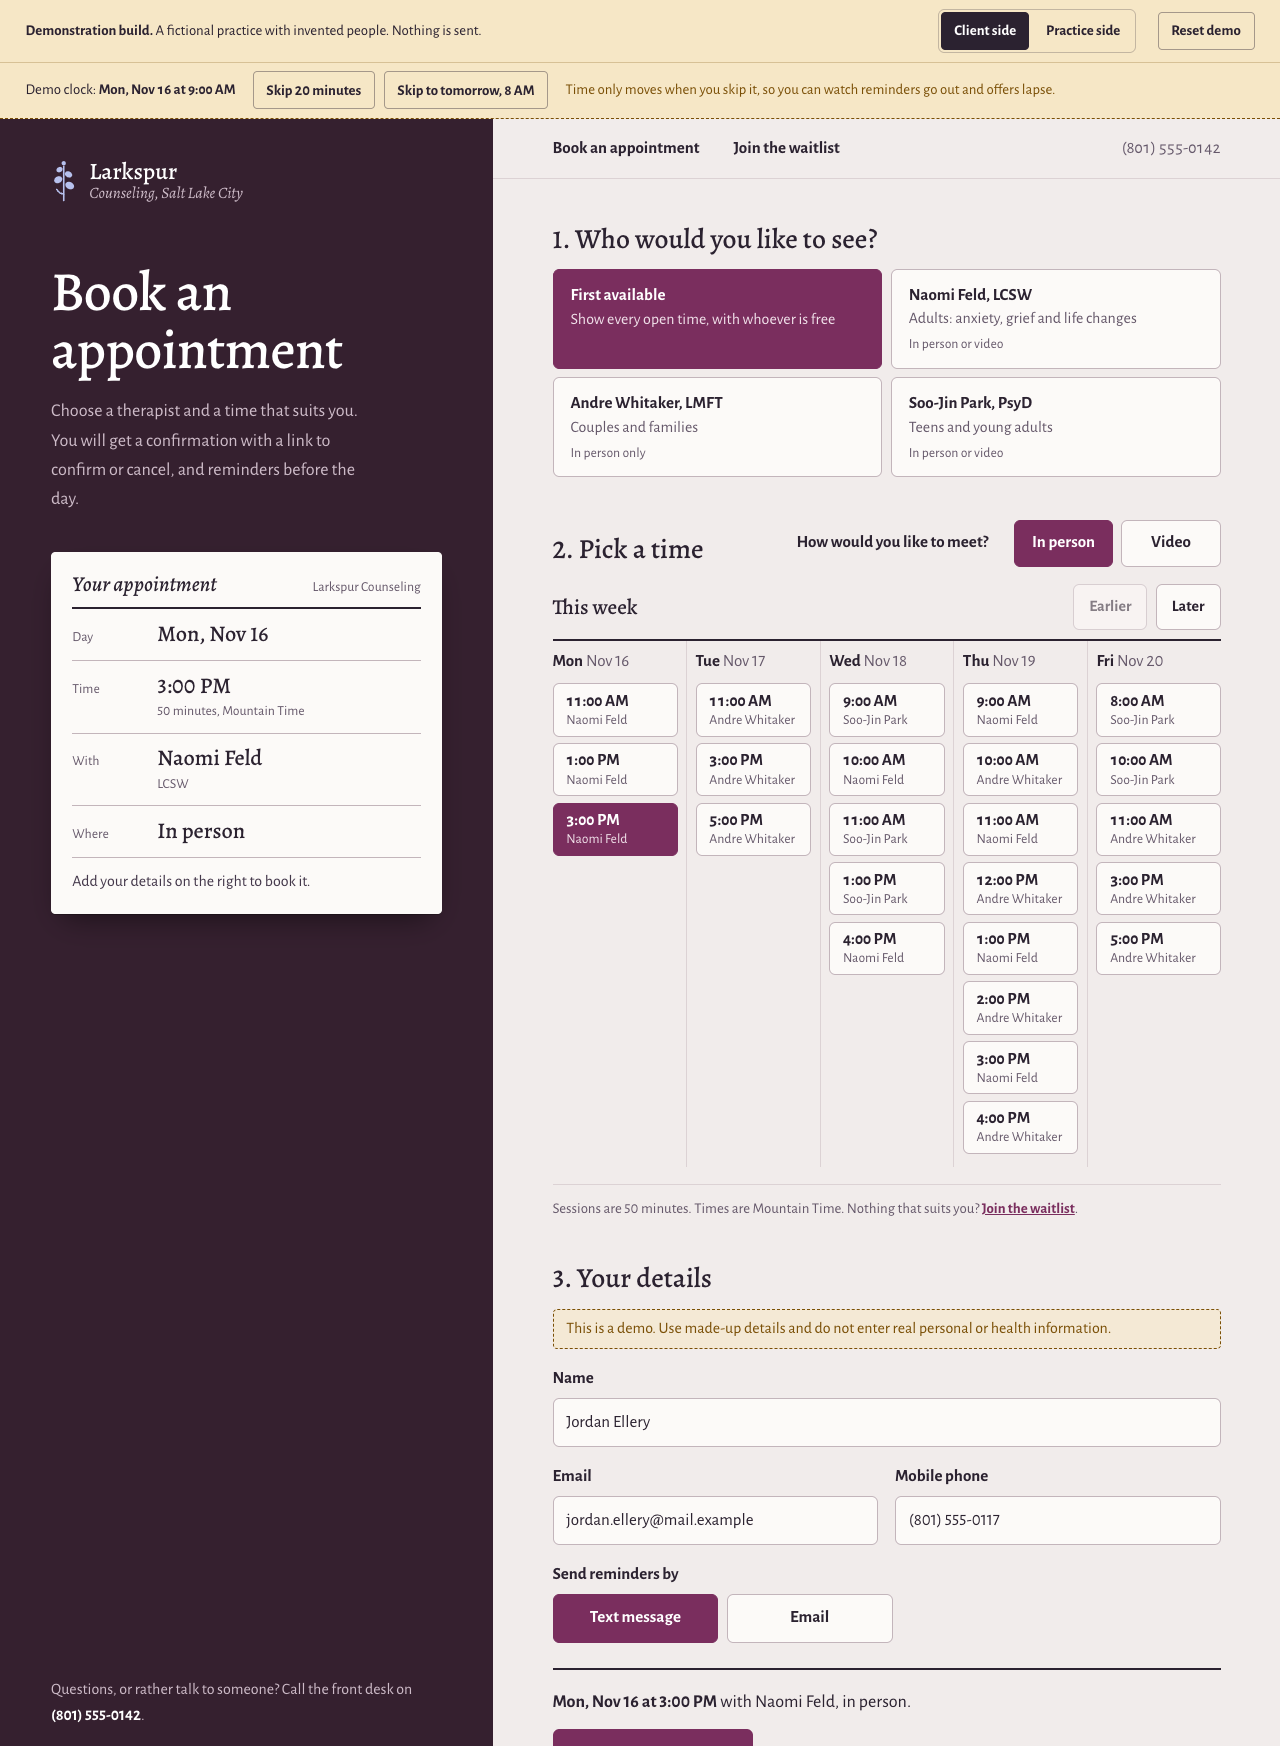
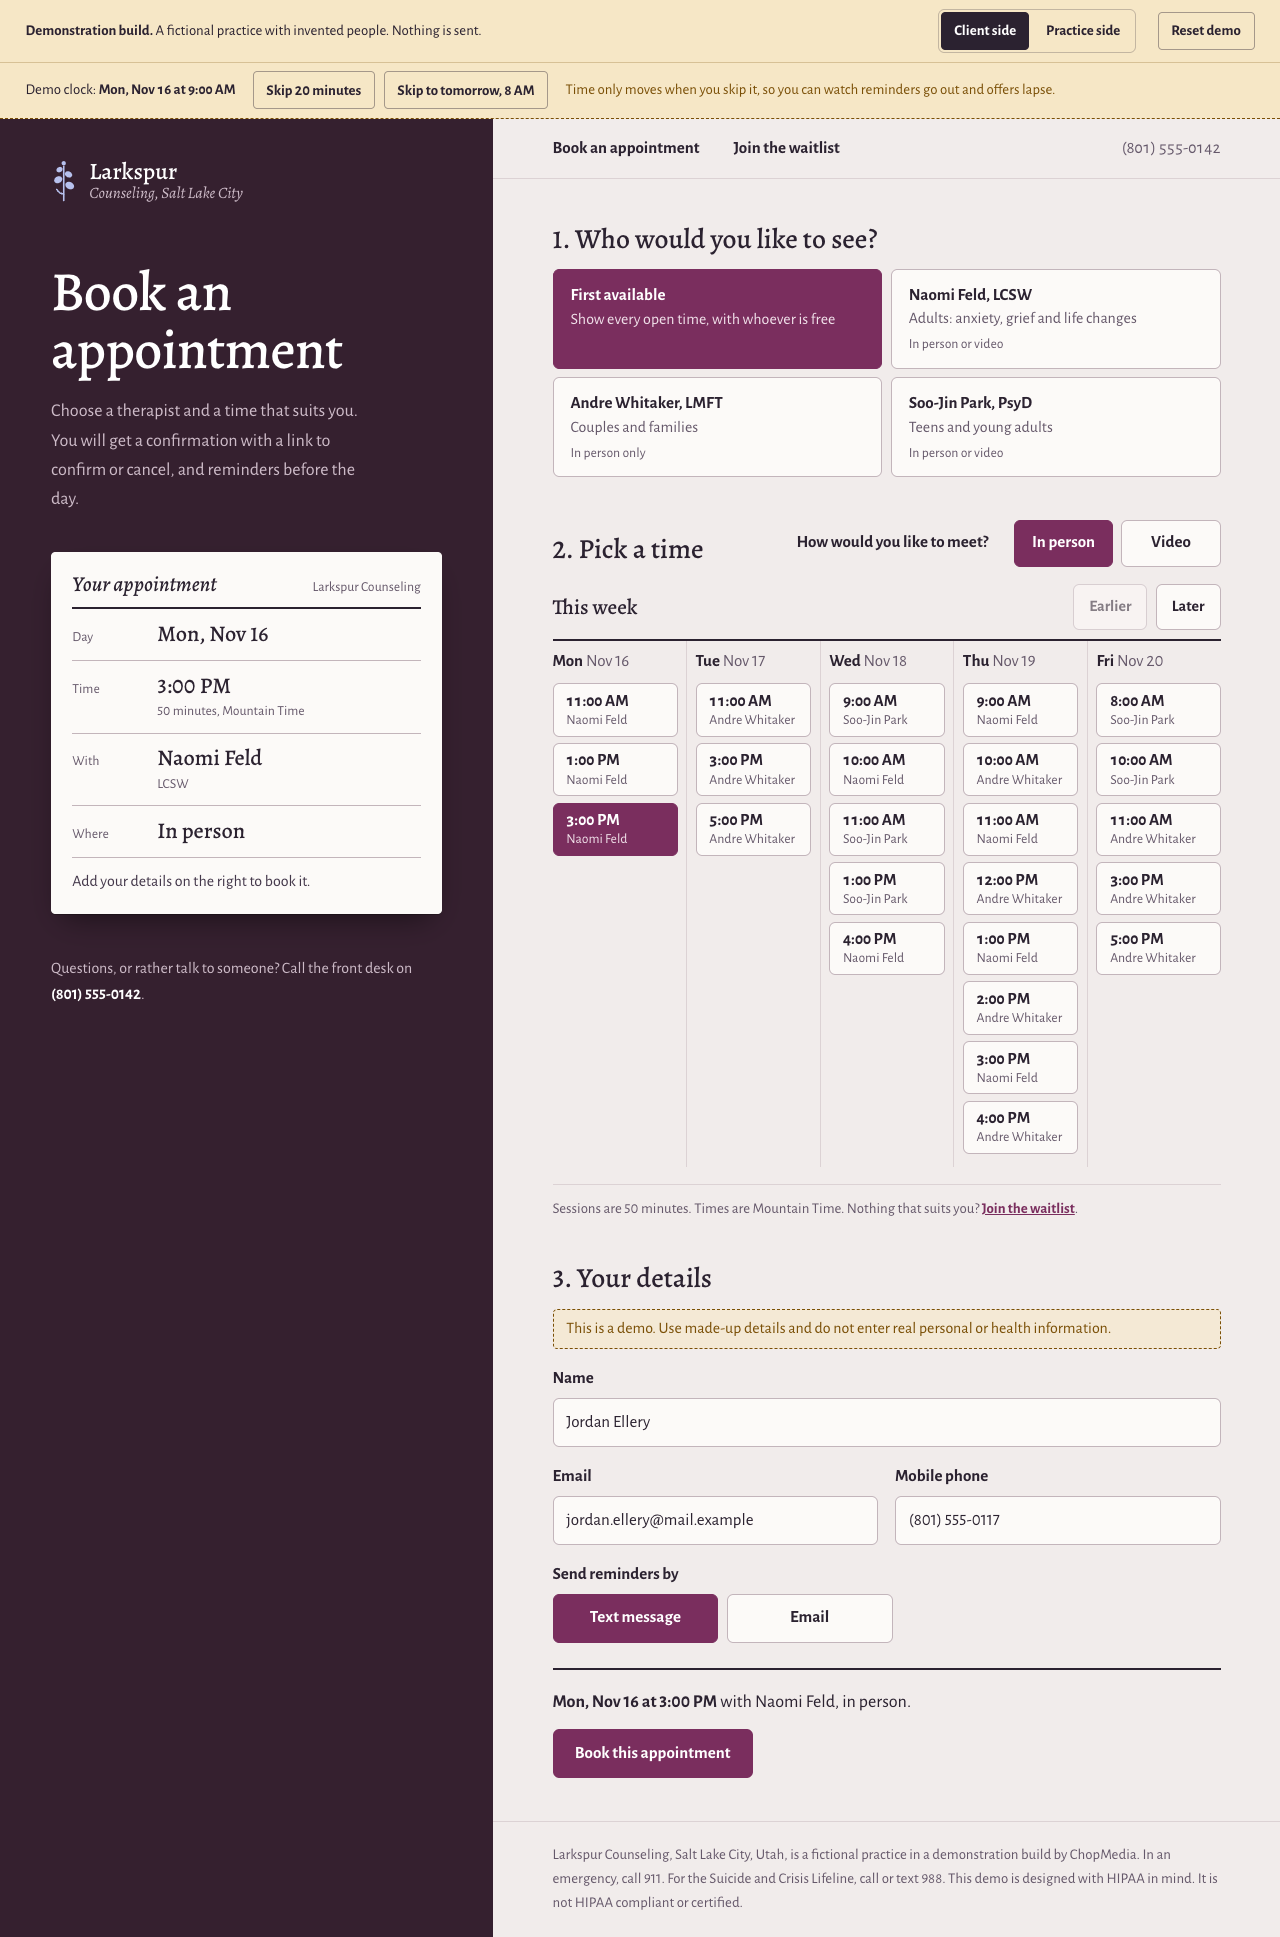
Compact the demo bar and dusk panel on phone, practice-side not-found page
On a 390px phone the first booking choice now sits on the first screen:
shorter demo bar (short clock, hint sentence hidden), smaller headline and
tighter padding in the dusk panel, tighter appointment card. Unknown
/practice URLs keep the practice frame. Docs screenshots retaken full height.

diff --git a/src/components/site.tsx b/src/components/site.tsx
@@ -25,13 +25,13 @@ const NAV = [
  * The fictional practice's public website frame, around every client-side page.
  * On a laptop the practice's own panel stays put on the left, with what the page
  * is about, while the work of the page happens on the right. On a phone the
- * panel is the top of the page.
+ * panel is a short top of the page, so the first choice is on the first screen.
  */
 export function SiteFrame({ aside, children }: { aside: React.ReactNode; children: React.ReactNode }) {
   return (
     <div className="flex flex-1 flex-col lg:grid lg:grid-cols-[24rem_minmax(0,1fr)] xl:grid-cols-[29rem_minmax(0,1fr)]">
       <header className="on-dusk bg-dusk text-white">
-        <div className="flex flex-col px-5 pb-8 pt-5 sm:px-8 lg:sticky lg:top-0 lg:min-h-[min(100%,calc(100vh-5.5rem))] lg:px-10 lg:pb-10 lg:pt-9 xl:px-12">
+        <div className="flex flex-col px-5 pb-5 pt-3 sm:px-8 sm:pb-8 sm:pt-5 lg:sticky lg:top-0 lg:min-h-[min(100%,calc(100vh-5.5rem))] lg:px-10 lg:pb-10 lg:pt-9 xl:px-12">
           <Link href="/" className="flex min-h-11 items-center gap-3 self-start rounded-sm">
             <LarkspurMark className="h-10 w-6 text-[#b7c1ee]" />
             <span className="font-display text-[1.375rem] font-medium leading-[1.1]">
@@ -39,14 +39,14 @@ export function SiteFrame({ aside, children }: { aside: React.ReactNode; childre
               <span className="block text-[0.9375rem] font-normal italic text-dusk-soft">Counseling, {PRACTICE.city.split(",")[0]}</span>
             </span>
           </Link>
-          <nav aria-label="Larkspur website" className="mt-5 flex flex-wrap gap-x-6 border-t border-white/15 pt-1 lg:hidden">
+          <nav aria-label="Larkspur website" className="mt-1 flex flex-wrap gap-x-6 border-t border-white/15 sm:mt-5 sm:pt-1 lg:hidden">
             {NAV.map((item) => (
               <Link key={item.href} href={item.href} className="flex min-h-11 items-center font-semibold underline decoration-white/40 underline-offset-4">
                 {item.label}
               </Link>
             ))}
           </nav>
-          <div className="mt-6 lg:mt-14">{aside}</div>
+          <div className="mt-3 sm:mt-6 lg:mt-14">{aside}</div>
           <p className="mt-auto hidden pt-10 text-[0.9375rem] leading-relaxed text-dusk-soft lg:block">
             Questions, or rather talk to someone? Call the front desk on <span className="whitespace-nowrap font-semibold text-white">{PRACTICE.phone}</span>.
           </p>
@@ -62,7 +62,7 @@ export function SiteFrame({ aside, children }: { aside: React.ReactNode; childre
           ))}
           <span className="ml-auto tabular-nums text-muted">{PRACTICE.phone}</span>
         </nav>
-        <main className="w-full max-w-[60rem] flex-1 px-5 py-8 sm:px-8 lg:px-10 lg:py-10 xl:px-14">{children}</main>
+        <main className="w-full max-w-[60rem] flex-1 px-5 py-6 sm:px-8 sm:py-8 lg:px-10 lg:py-10 xl:px-14">{children}</main>
         <footer className="border-t border-line px-5 py-5 sm:px-8 lg:px-10 xl:px-14">
           <p className="max-w-[60rem] text-sm leading-relaxed text-muted">
             {PRACTICE.name}, {PRACTICE.city}, is a fictional practice in a demonstration build by ChopMedia. In an emergency, call 911. For the Suicide
@@ -78,9 +78,9 @@ export function SiteFrame({ aside, children }: { aside: React.ReactNode; childre
 export function AsideIntro({ greeting, title, children }: { greeting?: string; title: string; children?: React.ReactNode }) {
   return (
     <>
-      {greeting && <p className="font-display text-xl italic text-dusk-soft">{greeting}</p>}
-      <h1 className="font-display text-[2.5rem] font-medium leading-[1.05] tracking-[-0.01em] xl:text-[3.25rem]">{title}</h1>
-      {children && <p className="mt-4 max-w-[34ch] text-[1.0625rem] leading-relaxed text-dusk-soft">{children}</p>}
+      {greeting && <p className="font-display text-[1.0625rem] italic text-dusk-soft sm:text-xl">{greeting}</p>}
+      <h1 className="font-display text-[1.75rem] font-medium leading-[1.1] tracking-[-0.01em] sm:text-[2.5rem] sm:leading-[1.05] xl:text-[3.25rem]">{title}</h1>
+      {children && <p className="mt-4 hidden max-w-[34ch] sm:block text-[1.0625rem] leading-relaxed text-dusk-soft">{children}</p>}
     </>
   );
 }
@@ -93,18 +93,18 @@ export type CardLine = { label: string; value: string | null; note?: string | nu
  */
 export function AppointmentCard({ heading, lines, footer, className = "" }: { heading: string; lines: CardLine[]; footer?: React.ReactNode; className?: string }) {
   return (
-    <div className={`rounded-[0.25rem] bg-surface px-5 pb-5 pt-4 text-ink shadow-[0_1px_0_rgba(0,0,0,0.25),0_14px_30px_-12px_rgba(0,0,0,0.55)] ${className}`}>
-      <p className="flex items-baseline justify-between gap-4 border-b-2 border-ink pb-2">
-        <span className="font-display text-xl font-medium italic">{heading}</span>
+    <div className={`rounded-[0.25rem] bg-surface px-4 pb-3 pt-3 text-ink sm:px-5 sm:pb-5 sm:pt-4 shadow-[0_1px_0_rgba(0,0,0,0.25),0_14px_30px_-12px_rgba(0,0,0,0.55)] ${className}`}>
+      <p className="flex items-baseline justify-between gap-4 border-b-2 border-ink pb-1.5 sm:pb-2">
+        <span className="font-display text-lg font-medium italic sm:text-xl">{heading}</span>
         <span className="text-[0.8125rem] text-muted">{PRACTICE.name}</span>
       </p>
       <dl>
         {lines.map((line) => (
-          <div key={line.label} className="card-rule grid grid-cols-[4.25rem_minmax(0,1fr)] items-baseline gap-x-3 py-2.5">
+          <div key={line.label} className="card-rule grid grid-cols-[4.25rem_minmax(0,1fr)] items-baseline gap-x-3 py-1.5 sm:py-2.5">
             <dt className="text-[0.8125rem] text-muted">{line.label}</dt>
             <dd className="min-h-7">
               {line.value && (
-                <span className={`font-display text-[1.3125rem] font-medium leading-tight ${line.struck ? "line-through decoration-flag decoration-2" : ""}`}>{line.value}</span>
+                <span className={`font-display text-[1.1875rem] font-medium leading-tight sm:text-[1.3125rem] ${line.struck ? "line-through decoration-flag decoration-2" : ""}`}>{line.value}</span>
               )}
               {line.note && <span className="block text-[0.8125rem] text-muted">{line.note}</span>}
             </dd>

diff --git a/src/components/demo-bar.tsx b/src/components/demo-bar.tsx
@@ -32,9 +32,10 @@ export function DemoBar({ clock }: { clock: string | null }) {
 
   return (
     <div className="demo-chrome border-b border-dashed border-amber bg-amber-tint text-sm text-ink">
-      <div className="flex flex-wrap items-center gap-x-5 gap-y-2 px-4 py-2 sm:px-6">
+      <div className="flex flex-wrap items-center gap-x-5 gap-y-1.5 px-4 py-1.5 sm:gap-y-2 sm:px-6 sm:py-2">
         <p className="min-w-0 flex-1 basis-64 leading-snug">
-          <strong className="font-semibold">Demonstration build.</strong> A fictional practice with invented people. Nothing is sent.
+          <strong className="font-semibold">Demonstration build.</strong> <span className="sm:hidden">Fictional practice. Nothing is sent.</span>
+          <span className="hidden sm:inline">A fictional practice with invented people. Nothing is sent.</span>
         </p>
         <nav aria-label="Demo view" className="flex items-center gap-1 rounded-[0.375rem] border border-ink/25 p-0.5">
           <Link href="/" className={tab(!practiceSide)} aria-current={!practiceSide ? "page" : undefined}>
@@ -51,16 +52,23 @@ export function DemoBar({ clock }: { clock: string | null }) {
         )}
       </div>
       {clock && (
-        <div className="flex flex-wrap items-center gap-x-4 gap-y-2 border-t border-amber/25 px-4 py-2 sm:px-6">
-          <p className="leading-snug">
+        <div className="flex flex-wrap items-center gap-x-2 gap-y-1.5 border-t border-amber/25 px-4 py-1.5 sm:gap-x-4 sm:gap-y-2 sm:px-6 sm:py-2">
+          <p className="hidden leading-snug sm:block">
             Demo clock: <strong className="font-semibold tabular-nums">{clock}</strong>
+          </p>
+          {/* On a phone the clock is two short lines beside the skip buttons, so the bar stays small. */}
+          <p className="mr-auto leading-tight sm:hidden">
+            <span className="block text-[0.8125rem]">Demo clock</span>
+            <strong className="block font-semibold tabular-nums">{shortClock(clock)}</strong>
           </p>
           <div className="flex flex-wrap items-center gap-2">
             <button type="button" className={step} disabled={pending} onClick={() => skip("20min")}>
               Skip 20 minutes
             </button>
             <button type="button" className={step} disabled={pending} onClick={() => skip("tomorrow")}>
-              Skip to tomorrow, 8 AM
+              <span className="sr-only sm:not-sr-only">Skip to </span>
+              <span className="sm:hidden">Tomorrow, 8 AM</span>
+              <span className="hidden sm:inline">tomorrow, 8 AM</span>
             </button>
           </div>
           {error ? (
@@ -68,7 +76,7 @@ export function DemoBar({ clock }: { clock: string | null }) {
               {error}
             </p>
           ) : (
-            <p key="hint" className="min-w-0 flex-1 basis-64 leading-snug text-amber">
+            <p key="hint" className="hidden min-w-0 flex-1 basis-64 leading-snug text-amber sm:block">
               Time only moves when you skip it, so you can watch reminders go out and offers lapse.
             </p>
           )}
@@ -78,7 +86,13 @@ export function DemoBar({ clock }: { clock: string | null }) {
   );
 }
 
-const BUTTON = "min-h-11 cursor-pointer rounded-[0.25rem] border border-ink/40 px-3 font-semibold hover:border-ink hover:bg-ink/5 lg:min-h-9";
+/** "Mon, Nov 16 at 9:00 AM" as "Mon, 9:00 AM". */
+function shortClock(clock: string) {
+  const [date, time] = clock.split(" at ");
+  return time ? `${date.split(",")[0]}, ${time}` : clock;
+}
+
+const BUTTON = "min-h-11 cursor-pointer rounded-[0.25rem] border border-ink/40 px-2.5 sm:px-3 font-semibold hover:border-ink hover:bg-ink/5 lg:min-h-9";
 
 function ResetButton() {
   const { pending } = useFormStatus();

diff --git a/src/app/offer/[token]/page.tsx b/src/app/offer/[token]/page.tsx
@@ -36,7 +36,7 @@ export default async function OfferPage({ params }: PageProps<"/offer/[token]">)
         <>
           <AsideIntro greeting={`Hello ${client.name.split(" ")[0]},`} title={HEADING[offer.status]} />
           <AppointmentCard
-            className="mt-8 max-w-[26rem]"
+            className="mt-4 max-w-[26rem] sm:mt-8"
             heading={offer.status === "accepted" ? "Your appointment" : gone ? "No longer held" : "Held for you"}
             lines={[
               { label: "Day", value: fmtDayLong(opening.startsAt), struck: gone },
@@ -51,11 +51,11 @@ export default async function OfferPage({ params }: PageProps<"/offer/[token]">)
       <div className="max-w-[40rem]">
         {offer.status === "sent" && (
           <>
-            <p className="border-l-4 border-amber bg-amber-tint px-4 py-3 text-[1.0625rem] leading-relaxed">
+            <p className="border-l-4 border-amber bg-amber-tint px-4 py-2.5 leading-snug sm:py-3 sm:text-[1.0625rem] sm:leading-relaxed">
               Held for you until <strong className="font-semibold">{fmtTime(offer.expiresAt)}</strong> ({countOf(minutesLeft, "minute")} from now). After
               that it goes to the next person waiting.
             </p>
-            <div className="mt-6 flex flex-col gap-3 sm:flex-row sm:items-start">
+            <div className="mt-4 flex flex-col gap-3 sm:mt-6 sm:flex-row sm:items-start">
               <ActionButton action={respondToOfferAction.bind(null, token, "accept")} pendingLabel="Booking">
                 Take this time
               </ActionButton>

diff --git a/src/app/practice/not-found.tsx b/src/app/practice/not-found.tsx
@@ -1,0 +1,21 @@
+import Link from "next/link";
+
+export default function PracticeNotFound() {
+  return (
+    <div className="max-w-[40rem]">
+      <h1 className="font-display text-[2.25rem] font-medium leading-[1.1] tracking-[-0.01em] lg:text-[2.625rem]">That page is not here</h1>
+      <p className="mt-3 text-lg leading-relaxed text-muted">
+        The address may be mistyped, or it may point at an appointment from before the demo was reset. Each visitor gets a private copy of the sample
+        data, so a link only opens in the browser that created it.
+      </p>
+      <div className="mt-6 flex flex-col gap-3 sm:flex-row">
+        <Link href="/practice" className="btn btn-primary">
+          Back to the calendar
+        </Link>
+        <Link href="/practice/cancellations" className="btn btn-quiet">
+          See cancellations
+        </Link>
+      </div>
+    </div>
+  );
+}

diff --git a/src/app/a/[token]/page.tsx b/src/app/a/[token]/page.tsx
@@ -29,7 +29,7 @@ export default async function AppointmentPage({ params }: PageProps<"/a/[token]"
         <>
           <AsideIntro title={TITLE[appointment.status]} />
           <AppointmentCard
-            className="mt-8 max-w-[26rem]"
+            className="mt-4 max-w-[26rem] sm:mt-8"
             heading={cancelled ? "Cancelled" : "Your appointment"}
             lines={[
               { label: "Day", value: fmtDayLong(appointment.startsAt), struck: cancelled },

diff --git a/src/app/practice/[...rest]/page.tsx b/src/app/practice/[...rest]/page.tsx
@@ -1,0 +1,6 @@
+import { notFound } from "next/navigation";
+
+/** Any practice-side address that is not a real page gets the practice side's own "not here" screen. */
+export default function PracticeCatchAll(): never {
+  notFound();
+}
